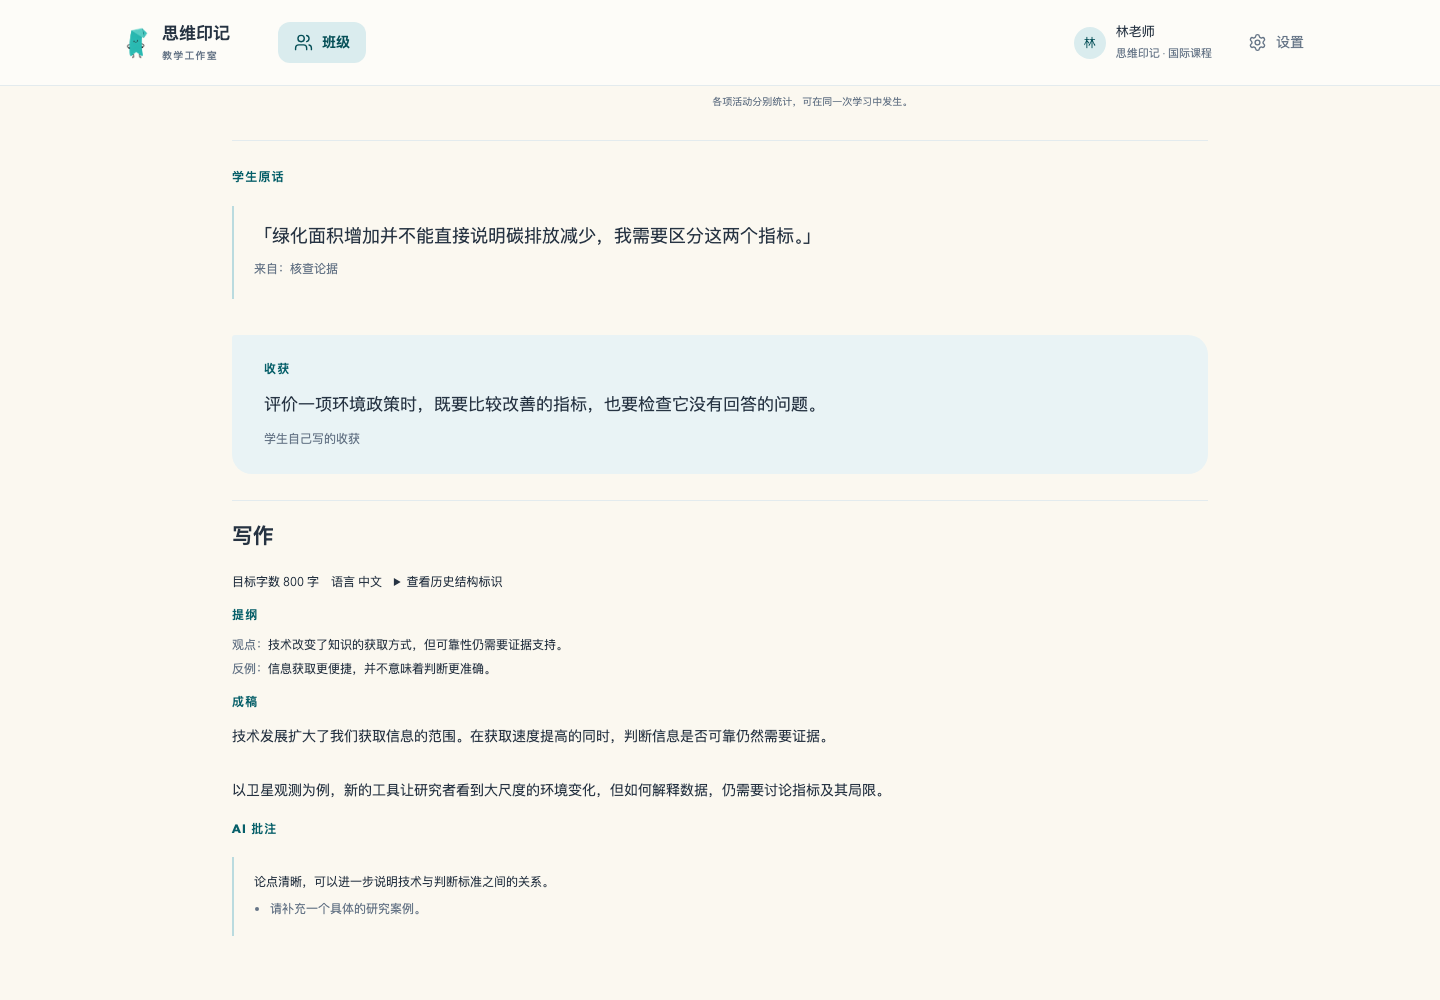
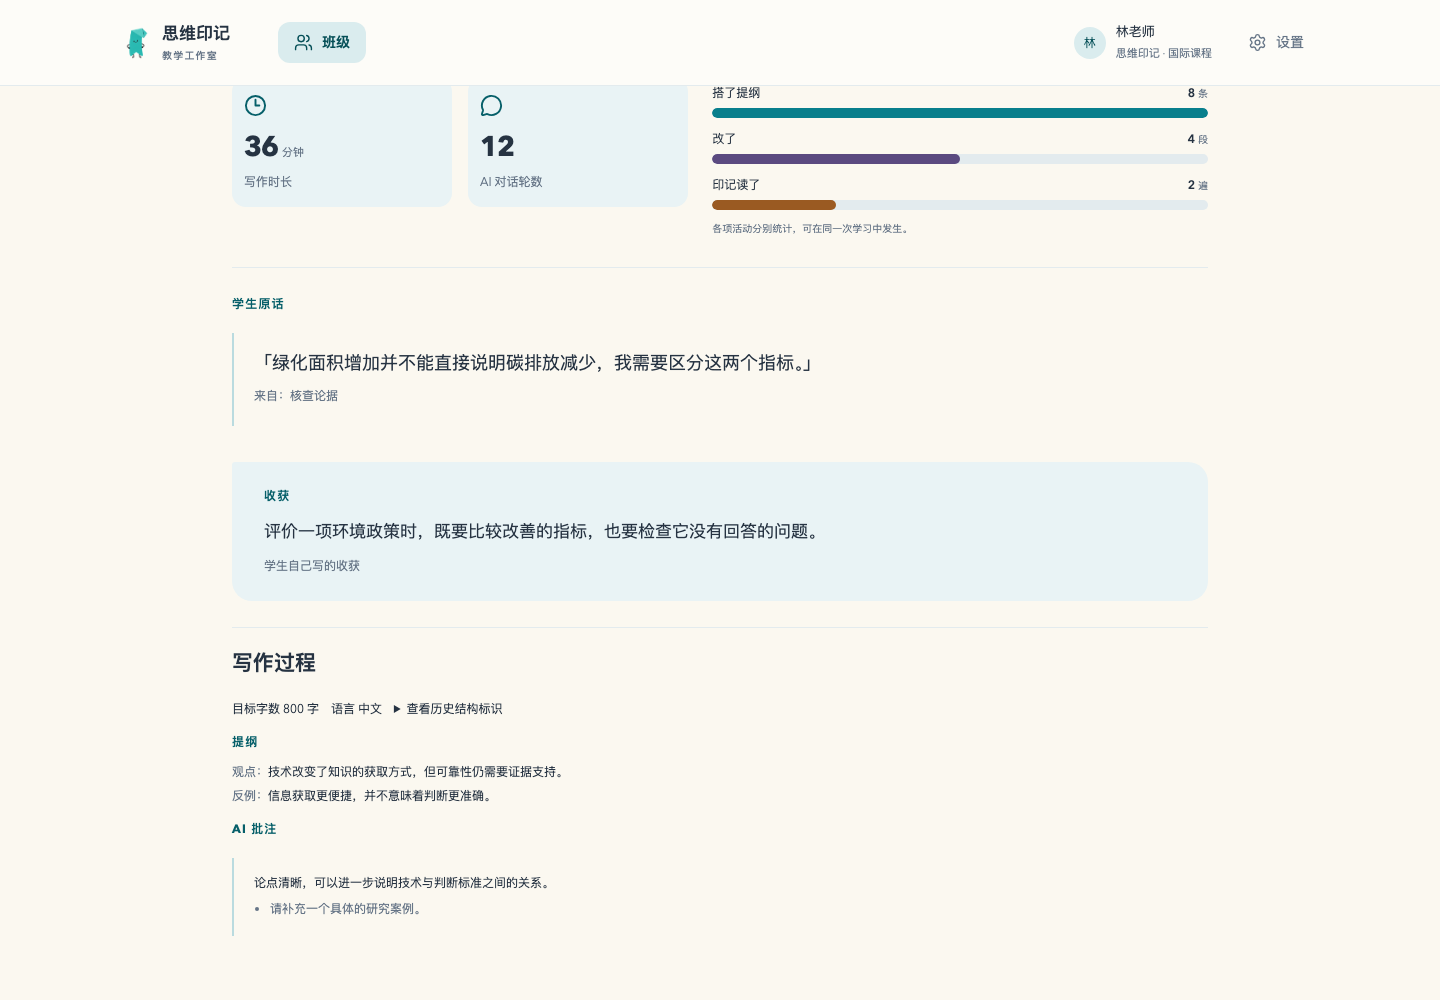
fix(lite): prioritize original student writing in teacher view

diff --git a/apps/lite-web/src/teacher/ItemPage.tsx b/apps/lite-web/src/teacher/ItemPage.tsx
@@ -201,6 +201,18 @@ function ItemBody({
       </p>
       <p className="mt-3 text-mk-small text-mk-muted">对话内容不向教师展示；以下为学生的产出。</p>
 
+      {detail.writing && (
+        <section className="teacher-record-section teacher-writing-original" aria-labelledby="writing-original-heading">
+          <h2 id="writing-original-heading" className="text-mk-h3 text-mk-ink">写作原文</h2>
+          <p className="mt-1 text-mk-small text-mk-muted">学生当前保存的正文</p>
+          {detail.writing.draft?.trim() ? (
+            <article className="teacher-writing-manuscript">{detail.writing.draft}</article>
+          ) : (
+            <p className="mt-5 text-mk-body text-mk-muted">学生尚未保存写作正文</p>
+          )}
+        </section>
+      )}
+
       <ReportSection
         report={detail.report}
         reportError={detail.reportError}
@@ -361,10 +373,10 @@ function ReadingSection({
 
 function WritingSection({ writing }: { writing: ItemDetail["writing"] }) {
   if (!writing) return null;
-  const { targetWords, lang, structureKey, outline, snippets, draft, comments } = writing;
+  const { targetWords, lang, structureKey, outline, snippets, comments } = writing;
   return (
     <section className="teacher-record-section">
-      <h2 className="text-mk-h3 text-mk-ink">写作</h2>
+      <h2 className="text-mk-h3 text-mk-ink">写作过程</h2>
 
       <div className="mt-2 flex flex-wrap gap-x-3 gap-y-1 text-mk-small text-mk-ink">
         <span>目标字数 {targetWords && targetWords > 0 ? `${targetWords} ${lang === "en" ? "词" : "字"}` : "—"}</span>
@@ -396,13 +408,6 @@ function WritingSection({ writing }: { writing: ItemDetail["writing"] }) {
               </li>
             ))}
           </ul>
-        </div>
-      )}
-
-      {draft && (
-        <div className="mt-4">
-          <h3 className="text-mk-label text-mk-muted">成稿</h3>
-          <p className="mt-1.5 whitespace-pre-wrap text-mk-body text-mk-ink">{draft}</p>
         </div>
       )}
 

diff --git a/apps/lite-web/src/teacher/teacher-studio.css b/apps/lite-web/src/teacher/teacher-studio.css
@@ -193,3 +193,13 @@
 .teacher-day-segments>span[data-active=true] { background:var(--mk-accent-500); }
 @media(max-width:1000px){.teacher-learning-snapshot:not(.is-compact){grid-template-columns:130px 1fr;gap:24px}.teacher-activity-chart{grid-column:1/-1}.teacher-student-snapshot{gap:24px}}
 .teacher-student-page .teacher-stat-strip { grid-template-columns:repeat(3,minmax(0,1fr)); }
+
+.lite-teacher .teacher-writing-manuscript {
+  margin-top: 24px;
+  max-width: 48em;
+  white-space: pre-wrap;
+  overflow-wrap: anywhere;
+  color: var(--mk-ink);
+  font-size: 16px;
+  line-height: 1.95;
+}

diff --git a/docs/design/lite-teacher-refresh/README.md b/docs/design/lite-teacher-refresh/README.md
@@ -34,3 +34,9 @@ Type checking, 698 existing tests, production build and browser activity-filter 
 `ReportVisualSummary` now serves student reports, their public view and exported posters, and teacher reports. It separates time/words/dialogue metrics from activity-count bars and keeps source attribution intact. Both poster types grow with content and retain all nonzero statistics. `ProjectProgressVisual` serves teacher project records and the student plan; the student retains its interactive step rows and approval actions. No API or process-state changes.
 
 697 tests in 72 files passed. One obsolete CSS-class layout test was removed; real Chromium screenshots cover the layout instead. Type checking and the production build passed. Browser checks rendered both student reports, expanded a project step, and downloaded and visually inspected actual reading/writing PNGs. Teacher navigation and chart-filter checks were repeated.
+
+### 教师查看写作原文
+
+将已有接口返回的 `writing.draft` 提到写作成果页报告之前，命名为「写作原文」，说明为学生当前保存的正文；原文保持完整文本与换行，不再藏在提纲和片段后的「成稿」中。无正文时明确提示尚未保存，提纲、片段和 AI 批注保留在「写作过程」。接口和权限不变。
+
+验证：TypeScript 检查通过；真实 Chromium 使用模拟接口核对全文一致、原文可见、空正文提示与无浏览器错误，更新 writing.png 和 writing-details.png。
